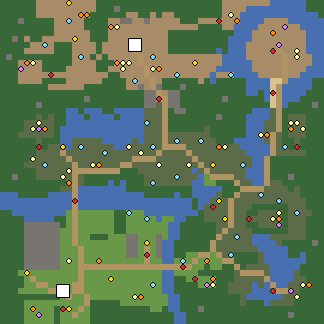
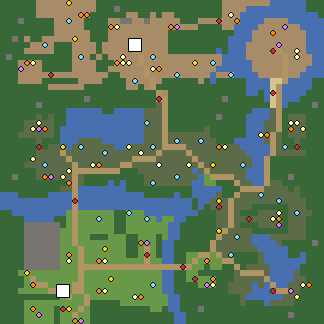
Bagna, runda 6: stosy w domu (15 → 25 obiektów), nisze ze strażą, wylot mostu na jedno pole
- Dom: skrzynia z jagodami 4 kroki od bramy, kopalnia pokeballi na łące
  przy drodze (cztery kopalnie widoczne naraz), nisza za słabą strażą ze
  skrzynią i artefaktem, drzewo wiedzy; pary zamiast pojedynczych surowców;
  nagrody na końcach odnóg (5,47) i (12–13,53).
- Straż kopalni kamienia w niszy zamkniętej lasem; wejścia zakątka i
  korytarza wroga obudowane lasem; wylot mostu zwężony lasem do jednego
  pola za strażą.
- Plamy skał lasem, zachodnie jezioro jedną taflą; drugi wiatrak → wóz,
  druga wieża → ranczo; ognisko i stos na płaskowyżu wroga.
- 127 obiektów, obiekt co 9,8 pola, bez bitwy 22 %, pasy [25,27,30,27,18].

Claude-Session: https://claude.ai/code/session_01BGiaZhgTwDgLbUxsH7vpi6

diff --git a/src/data/plansza-teren-bagna.ts b/src/data/plansza-teren-bagna.ts
@@ -20,19 +20,19 @@ export const TEREN = [
   'TTTTjjjjjTTTjjjjTjjjjj=jjjjjTTTTTTTT~T~~~jjjjj=jjjj~~~',
   'T#TTTTTTTTTTjjjTjTjjjjj=jjjjjjjjjjjjj~~~~jjjjjj=jjjj~~',
   'TTTjjjjTTTTTjjjjTTTjjjj=jjjjjjjjjjjjj~~~~~jjjjj=jjjj~~',
-  'TTTjjjjTTTTjjjjjTTjjjjjj=jjjjjjjjjjj~~~~~~jjjjj=jjj~~~',
+  'TTTjjjjTTTTTjjjjTTjjjjjj=jjjjjjjjjjj~~~~~~jjjjj=jjj~~~',
   'TTTjjjjjjjjjjjjjjjTTjjjj=jjjjjjjjjj~jjj~~~~jjjj=jj~~~~',
-  'TTTjjjjTTTTjjjjjjTTTTjjjj=jTTTTTTjT~TTTTT~~~~,,=~~~~TT',
-  'TTTTTTTTjjjjjjTTTTTTTjj#j=#TTT#TTTTTTTTTT~~~~,=~~~~~TT',
-  'TTTTTTTTTTTTTTTTTTTTTTTT##=j##TTTTTTTTTTT~~T~,=~~~~TTT',
-  'TTTTTTTTTTTTTT#TTTTTTTTT##j=##TTTTTTT#TTTTTT~,=~~~TTTT',
-  'TTTTTT#TTTTTTTTTTTTTTTTT##b=##TTTTTTTTTTTTTTT,=~TTTT#T',
-  'TTTTTTTTTTT~~T~~~TT~~~~~bbb=T##TTTTTTTTTTT~~~b=TTTTTTT',
-  'TTTTTTbTbTT~~~T~~~~T~~~~bbb=TTTTTTTT#TTTT~~~~b=TbbbTTT',
+  'TTTjjjjTTTTTTjjjjTTTTjjjj=jTTTTTTjT~TTTTT~~~~,,=~~~~TT',
+  'TTTTTTTTjjjjjjTTTTTTTjjTj=TTTTTTTTTTTTTTT~~~~,=~~~~~TT',
+  'TTTTTTTTTTTTTTTTTTTTTTTTTT=jTTTTTTTTTTTTT~~T~,=~~~~TTT',
+  'TTTTTTTTTTTTTT#TTTTTTTTTTTj=TTTTTTTTT#TTTTTT~,=~~~TTTT',
+  'TTTTTT#TTTTTTTTTTTTTTTTTTTb=TTTTTTTTTTTTTTTTT,=~TTTT#T',
+  'TTTTTTTTTTT~~~~~~TT~~~~~bbb=TTTTTTTTTTTTTT~~~b=TTTTTTT',
+  'TTTTTTbTbTT~~~~~~~~~~~~~bbb=TTTTTTTT#TTTT~~~~b=TbbbTTT',
   'TTTTbbbbbTT~~~~~~~~~~~~~bbb=TTTTTTTTTTTTT~~~bb=TbbbTTT',
   'TTTTbbbbbT~~~~~~~~~~~~~~bbb=TTTTTTbTTTTTT~~~bb=TbbbTTT',
   'TTTbbbbbbT~~~~~~~~~~~~~~bbb=bbbbbbbTTTTTT~~bb=bTbbbTTT',
-  'TTTTTTbTTT~~bbbbb~~~~~b~bbb=bbbbbbbbTTT~~~~~b=bTTbTTTT',
+  'TTTTTTbTTT~~~bbbb~~~~~~~bbb=bbbbbbbbTTT~~~~~b=bTTbTTTT',
   'TTTTTTbTbbb~bbbbbbb~~bbbbbb====bbbbbbbbb~~~~~=bbTbTTTT',
   'TTTTTTbbbb=bbbbbbbbbbbbbbb=bbbb=bbbbbbbbb~~~~=bbbbbTTT',
   'TTTTTbbbbbb=bbbbbbbbbb====bbbbbb=bbbbbbbbb~~=TTTTTTTTT',
@@ -43,18 +43,18 @@ export const TEREN = [
   'TTTTTTTTTTbb=~~~~~~~~TTTTTTTTTTT~~~~~TTT====bbbbTbTTTT',
   '~~~TTTTT~~~~=~~~~~~~~~~~TTTTT~TT~~~~bTT=bbbbbbbbbbTTTT',
   '~~~~~~~~~~~~=~~~~~~~~~~~~~~~~~~~T~~bbb=bbbbbbbbbbbbTTT',
-  '~~~~~~~~~~~~=~~~~~~~~~~~~~~~~~~~T~bbbb=bbbTTTTTTbbbTTT',
-  'TT~~~~~~~~~.=......TT...~~~~~~~~~Tbbbb=bbTTbbbbTbbbbTT',
-  'TTTT~~~~~TT.=......TT.....~..~~TTTbbbb=bbbbbbbbTbbbTTT',
-  'TTTT######T.=......TT.......~~TTTTTTbb=bbTTbbbbTbbbTTT',
+  '~~~~~~~~~~~~=~~~~~~~~~~~~~~~~~~~T~Tbbb=bbbTTTTTTbbbTTT',
+  'TT~~~~~~~~~.=......TT...~~~~~~~~~TTTbb=bTTTbbbbTbbbbTT',
+  'TTTT~~~~~TT.=......TT.....~..~~TTTTTbb=bbbbbbbbTbbbTTT',
+  'TTTT######T.=......TT.......~~TTTTTTbb=bTTTbbbbTbbbTTT',
   'TTTT######..=......TT.......~~TTTTTTb=bbbbTTTTTTbbbTTT',
-  'TTTT######..=..TTT...##...#.~~TTTTTT=bbbbb~~~bbbbbbTTT',
-  'TTTT######..=........##...#~~TTTTTT=bbbbbb~~~~bTTTTT#T',
-  'TTTT######...=.......##.=.#~~TTTTTT=bbbbbbb~~~~~TTTTTT',
-  'TTTT######...=.......##.=.#~~TT..==.=bbTTTTb~~~~TT~TTT',
-  'TTTT######...=..........=..~~...=....==TTTTb~~~~~~~TTT',
+  'TTTT######..=..TTT...TT...T.~~TTTTTT=bbbbb~~~bbbbbbTTT',
+  'TTTT######..=........TT...T~~TTTTTT=bbbbbb~~~~bTTTTT#T',
+  'TTTT######...=.......TT.=.T~~TTTTTT=bbbbbbb~~~~~TTTTTT',
+  'TTTT######...=.......TT.=.T~~TT..==.=bbTTTTb~~~~TT~TTT',
+  'TTTT######...=..........=..~~TT.=....==TTTTb~~~~~~~TTT',
   'TTTT######...===================..T..TT=Tbbbb~~~~~TTTT',
-  'TTT..........=.............~~....TTTTTTb====b~~~~bTTTT',
+  'TTT..........=.............~~TT..TTTTTTb====b~~~~bTTTT',
   'TTTT.=.......=.............~~TT.....TTTbbbbb=~~~~bbTTT',
   'TTTT..==....==.............~~TTTT...TTbbbb~b~=~~bbbbTT',
   'TTT.....===.==.............~~TTTTTTTTTbbbb~~~b==bbTTTT',
@@ -134,11 +134,9 @@ export const ROZSTAWIENIE: Array<{
   { x: 23, y: 25, rodzaj: 'surowiec', strefa: 'pogranicze', surowiec: 'jagoda' },
   { x: 35, y: 27, rodzaj: 'kopalnia', strefa: 'pogranicze', surowiec: 'odlamek' },
   { x: 10, y: 24, rodzaj: 'kopalnia', strefa: 'pogranicze', surowiec: 'pokeball' },
-  { x: 37, y: 36, rodzaj: 'kopalnia', strefa: 'pogranicze', surowiec: 'jagoda' },
   { x: 24, y: 20, rodzaj: 'budynek', strefa: 'pogranicze', budynek: 'chatka' },
-  { x: 39, y: 39, rodzaj: 'budynek', strefa: 'pogranicze', budynek: 'wieza-obserwacyjna' },
+  { x: 39, y: 39, rodzaj: 'budynek', strefa: 'pogranicze', budynek: 'ranczo' },
   { x: 46, y: 33, rodzaj: 'budynek', strefa: 'pogranicze', budynek: 'zrodlo' },
-  { x: 30, y: 43, rodzaj: 'budynek', strefa: 'pogranicze', budynek: 'oboz-treningowy' },
   { x: 26, y: 27, rodzaj: 'jasnowidz', strefa: 'pogranicze' },
   { x: 49, y: 9, rodzaj: 'surowiec', strefa: 'wroga', surowiec: 'odlamek' },
   { x: 49, y: 8, rodzaj: 'surowiec', strefa: 'wroga', surowiec: 'pokeball' },
@@ -161,7 +159,6 @@ export const ROZSTAWIENIE: Array<{
   { x: 40, y: 27, rodzaj: 'budynek', strefa: 'pogranicze', budynek: 'drzewo-wiedzy' },
   { x: 19, y: 10, rodzaj: 'skrzynia', strefa: 'wroga' },
   { x: 20, y: 10, rodzaj: 'surowiec', strefa: 'wroga', surowiec: 'kamien' },
-  { x: 20, y: 11, rodzaj: 'surowiec', strefa: 'wroga', surowiec: 'odlamek' },
   { x: 39, y: 3, rodzaj: 'skrzynia', strefa: 'wroga' },
   { x: 38, y: 2, rodzaj: 'surowiec', strefa: 'wroga', surowiec: 'pokeball' },
   { x: 13, y: 2, rodzaj: 'skrzynia', strefa: 'wroga' },
@@ -170,7 +167,6 @@ export const ROZSTAWIENIE: Array<{
   { x: 10, y: 51, rodzaj: 'potwor', strefa: 'dom', sila: 'slaby' },
   { x: 45, y: 48, rodzaj: 'potwor', strefa: 'pogranicze', sila: 'sredni' },
   { x: 36, y: 33, rodzaj: 'kopalnia', strefa: 'pogranicze', surowiec: 'kamien' },
-  { x: 35, y: 34, rodzaj: 'potwor', strefa: 'pogranicze', sila: 'sredni' },
   { x: 11, y: 30, rodzaj: 'skrzynia', strefa: 'pogranicze' },
   { x: 34, y: 43, rodzaj: 'skrzynia', strefa: 'pogranicze' },
   { x: 22, y: 13, rodzaj: 'budynek', strefa: 'wroga', budynek: 'gniazdo' },
@@ -178,14 +174,13 @@ export const ROZSTAWIENIE: Array<{
   { x: 11, y: 3, rodzaj: 'budynek', strefa: 'wroga', budynek: 'wieza-obserwacyjna' },
   { x: 7, y: 27, rodzaj: 'budynek', strefa: 'pogranicze', budynek: 'woz' },
   { x: 43, y: 32, rodzaj: 'budynek', strefa: 'pogranicze', budynek: 'oboz-treningowy' },
-  { x: 47, y: 24, rodzaj: 'budynek', strefa: 'pogranicze', budynek: 'wiatrak' },
+  { x: 47, y: 24, rodzaj: 'budynek', strefa: 'pogranicze', budynek: 'woz' },
   { x: 13, y: 9, rodzaj: 'budynek', strefa: 'wroga', budynek: 'zrodlo' },
   { x: 32, y: 46, rodzaj: 'potwor', strefa: 'pogranicze', sila: 'slaby' },
   { x: 35, y: 46, rodzaj: 'skrzynia', strefa: 'pogranicze' },
   { x: 35, y: 47, rodzaj: 'surowiec', strefa: 'pogranicze', surowiec: 'jagoda' },
   { x: 34, y: 47, rodzaj: 'artefakt', strefa: 'pogranicze' },
   { x: 23, y: 49, rodzaj: 'skrzynia', strefa: 'dom' },
-  { x: 24, y: 40, rodzaj: 'kopalnia', strefa: 'dom', surowiec: 'pokeball' },
   { x: 24, y: 42, rodzaj: 'potwor', strefa: 'dom', sila: 'slaby' },
   { x: 36, y: 3, rodzaj: 'potwor', strefa: 'wroga', sila: 'silny' },
   { x: 25, y: 24, rodzaj: 'budynek', strefa: 'pogranicze', budynek: 'kamienna-wieza' },
@@ -210,6 +205,25 @@ export const ROZSTAWIENIE: Array<{
   { x: 26, y: 11, rodzaj: 'skrzynia', strefa: 'wroga' },
   { x: 15, y: 27, rodzaj: 'surowiec', strefa: 'pogranicze', surowiec: 'kamien' },
   { x: 16, y: 27, rodzaj: 'skrzynia', strefa: 'pogranicze' },
+  { x: 36, y: 34, rodzaj: 'potwor', strefa: 'pogranicze', sila: 'sredni' },
+  { x: 36, y: 38, rodzaj: 'kopalnia', strefa: 'pogranicze', surowiec: 'jagoda' },
+  { x: 20, y: 9, rodzaj: 'surowiec', strefa: 'wroga', surowiec: 'pokeball' },
+  { x: 16, y: 48, rodzaj: 'skrzynia', strefa: 'dom' },
+  { x: 17, y: 48, rodzaj: 'surowiec', strefa: 'dom', surowiec: 'jagoda' },
+  { x: 17, y: 43, rodzaj: 'surowiec', strefa: 'dom', surowiec: 'pokeball' },
+  { x: 11, y: 42, rodzaj: 'skrzynia', strefa: 'dom' },
+  { x: 23, y: 40, rodzaj: 'skrzynia', strefa: 'dom' },
+  { x: 24, y: 40, rodzaj: 'artefakt', strefa: 'dom' },
+  { x: 5, y: 47, rodzaj: 'skrzynia', strefa: 'dom' },
+  { x: 12, y: 53, rodzaj: 'skrzynia', strefa: 'dom' },
+  { x: 13, y: 53, rodzaj: 'artefakt', strefa: 'dom' },
+  { x: 17, y: 41, rodzaj: 'kopalnia', strefa: 'dom', surowiec: 'pokeball' },
+  { x: 16, y: 36, rodzaj: 'budynek', strefa: 'dom', budynek: 'drzewo-wiedzy' },
+  { x: 35, y: 10, rodzaj: 'budynek', strefa: 'wroga', budynek: 'ognisko' },
+  { x: 28, y: 4, rodzaj: 'skrzynia', strefa: 'wroga' },
+  { x: 29, y: 4, rodzaj: 'artefakt', strefa: 'wroga' },
+  { x: 7, y: 29, rodzaj: 'skrzynia', strefa: 'pogranicze' },
+  { x: 8, y: 29, rodzaj: 'artefakt', strefa: 'pogranicze' },
 ];
 
 /** Ustawienia misji na tej planszy — patrz `UstawieniaPlanszy` w `src/data/mapy.ts`. */

diff --git a/tools/mapy/bagna.py b/tools/mapy/bagna.py
@@ -736,6 +736,7 @@ def rozstaw(g):
     runda_4(g)
     runda_5(g)
     runda_6(g)
+    runda_7(g)
 
 
 #: Runda 11 (HotA, zwycięzca rundy 10: „nic nie przypomina bagna — stawy małe,
@@ -1740,92 +1741,135 @@ def runda_6(g):
         _kupka(g, prost, wpisy)
     _odswiez(g)
     g.zasyp_odciete(m)
-    print(f'  runda 6: brak miejsca na stos w {prost}')
-    return []
-
-
-def runda_6(g):
-    m = g.mapa
-    zabrane = _usun(g, R6_USUN)
-    _odswiez(g)
-
-    # --- teren -------------------------------------------------------------
-    for x, y in R6_LAS:
-        if m[y][x] != '=':
-            m[y][x] = 'T'
-    for x, y in R6_ZAKATEK_MOST:
-        m[y][x] = '.'
-    for x, y in R6_ZAKATEK_MOST_LAS:
-        m[y][x] = 'T'
-    for x, y in R6_SKALY:
-        if m[y][x] != '=':
-            m[y][x] = '#'
-    # E3: plama skał w dole doliny → las (jedna bryła z lasem obok).
-    for y in range(50, BOK):
-        for x in range(14, 21):
-            if m[y][x] == '#':
-                m[y][x] = 'T'
-    # D3: staw w trójkącie między traktem a jeziorem, trakt jego brzegiem.
-    for x, y in R6_TRAKT_PRECZ:
-        m[y][x] = 'b'
-    for x, y in R6_STAW:
-        m[y][x] = '~'
-    for x, y in R6_TRAKT:
-        m[y][x] = '='
-    # Ścieżka w dół doliny kończy się przy kopalni kamieni, nie na pustym.
-    if m[52][13] == '=':
-        m[52][13] = '.'
-        m[52][12] = '='
-    for odnoga in R6_ODNOGI:
-        for x, y in odnoga:
-            m[y][x] = '='
-    # E3: wschodni pas — łąka w bagno, kałuże do 8 pól w grunt wokół, pola
-    # bagna wciśnięte w jezioro (≥ 5 sąsiadów wody) pod wodę.
-    wschod = lambda x, y: x >= 40 and 20 <= y <= 50
-    for y in range(BOK):
-        for x in range(BOK):
-            if wschod(x, y) and m[y][x] == '.':
-                m[y][x] = 'b'
-    for zn, sk in list(_skladowe(m, '~', 8)):
-        if len(sk) <= 8 and all(wschod(x, y) for x, y in sk):
-            for x, y in sk:
-                m[y][x] = 'b'
-    zajete = {p for p, _ in g.obiekty} | g.blokada
-    for y in range(20, 51):
-        for x in range(40, BOK - 1):
-            if m[y][x] != 'b' or (x, y) in zajete:
-                continue
-            woda = sum(1 for dy in (-1, 0, 1) for dx in (-1, 0, 1)
-                       if (dx or dy) and m[y + dy][x + dx] == '~')
-            if woda >= 5:
-                m[y][x] = '~'
-    _odswiez(g)
-
-    # --- obiekty -----------------------------------------------------------
-    for p, w in R6_OBIEKTY:
-        if m[p[1]][p[0]] not in '.,bj=':
-            m[p[1]][p[0]] = '.'
-        g.postaw(p, w)
-    _odswiez(g)
-    for x, y in R6_ODNOGA_SADU:
-        m[y][x] = '='
-    for b, prost in R6_BUDOWLE:
-        p = _miejsce(g, prost)
-        if p is None:
-            print(f'  runda 6: brak miejsca na {b} w {prost}')
-            continue
-        g.postaw(p, ('budynek', b))
-    _odswiez(g)
-    for prost, wpisy in R6_STOSY:
-        _kupka(g, prost, wpisy)
-    _odswiez(g)
-    g.zasyp_odciete(m)
     import os
     if os.environ.get('R6_DEBUG'):
         for y in range(BOK):
             ob = {q: w[0][0].upper() for q, w in g.obiekty}
             print('%3d ' % y + ''.join(ob.get((x, y)) or ('o' if _miejsce(g, (x, y, x, y)) else m[y][x]) for x in range(BOK)))
     print(f'  runda 6: usunięte {len(zabrane)}, obiektów {len(g.obiekty)}')
+
+
+
+# --- RUNDA 7 PĘTLI (werdykt ślepego porównania r6: przegrana, 19 TAK /
+# 10 CZĘŚCIOWO / 1 NIE) ---------------------------------------------------
+# Krytyk: plansza za rzadka (obiekt co 11,1 pola), dom ma 15 obiektów na
+# 113, start na pustej łące; pojedyncze surowce i straże na placu. Poprzednie
+# rundy odchudzały na żądanie innych krytyków — więc nie konfetti, tylko
+# STOSY po 2–3 przy drodze i na końcach odnóg, budynki do odwiedzenia.
+#  - A3/G1: stos skrzynia + jagody (16–17, 48) 4 kroki od bramy zamku.
+#  - B1: kopalnia pokeballi z niszy (24,40) na otwartą łąkę przy trakcie
+#    (komplet czterech kopalń w domu widać od razu); w niszy za słabą strażą
+#    (24,42) zostaje stos skrzynia + artefakt.
+#  - B2: pojedyncze (16,43) i (11,43) → pary.
+#  - D1/F1: koniec odnogi do sadu (5,46) i ścieżki w dół doliny (12,52)
+#    kończy stos (skrzynia + kamień).
+#  - B2: stos płaskowyżu wroga (19–21, 10–11) zbity w kupkę 2 × 2 + 1.
+#  - C1: straż kamiennej kopalni (35,34) → (36,34) w niszy domkniętej lasem
+#    (kopalnia jagód (37,36) dwa pola niżej, (36,38), przy zakręcie traktu);
+#    wejście do zakątka wschodniego (41,36) i zachodniego zakątka wroga (8,12)
+#    to korytarze z lasem po obu stronach.
+#  - C4: wylot mostu (29–30, 43–45) zwężony lasem do jednego pola; obóz
+#    treningowy z przyczółka precz.
+#  - E3: skały niszy (21–22/26, 39–42) i przy bramie wroga (23–30, 13–17)
+#    → las; jezioro zachodnie (10–23, 18–23) bez wysepek i zatok.
+#  - F3: drugi wiatrak (47,24) → wędrowny sklepik, druga wieża widokowa
+#    (39,39) → ranczo. Portale (para „Stacji Kolejki") zostają — to jeden
+#    obiekt w dwóch końcach.
+R7_USUN = [(24, 40), (30, 43), (35, 34), (37, 36), (20, 11)]
+
+R7_LAS = [
+    # korytarz przed zakątkiem wroga (8,12) dłuższy o dwa pola
+    (11, 11), (11, 13), (12, 13),
+    # wejście do zakątka wschodniego (41,36): las po obu stronach
+    (40, 35), (40, 37),
+    # nisza kamiennej kopalni pogranicza (36,33)
+    (34, 34), (34, 35), (35, 35), (34, 36), (35, 36),
+    # wylot mostu
+    (29, 43), (30, 43), (29, 45), (30, 45),
+]
+
+#: Budowle podmienione w miejscu (F3).
+R7_PODMIEN = {(47, 24): 'woz', (39, 39): 'ranczo'}
+
+R7_OBIEKTY = [
+    ((36, 34), ('potwor', 'sredni')),           # nisza kopalni kamieni
+    ((36, 38), ('kopalnia', 'jagoda')),         # z (37,36): rysunek nie wchodzi na straż
+    ((20, 9), ('surowiec', 'pokeball')),        # stos wroga (19–21, 9–10) zbity w kupkę
+    ((16, 48), ('skrzynia', None)),             # A3: 4 kroki od bramy
+    ((17, 48), ('surowiec', 'jagoda')),
+    ((17, 43), ('surowiec', 'pokeball')),       # para ze skrzynią (16,43)
+    ((11, 42), ('skrzynia', None)),             # para z jagodami (11,43)
+    ((23, 40), ('skrzynia', None)),             # nisza za strażą (24,42)
+    ((24, 40), ('artefakt', None)),
+    ((5, 47), ('skrzynia', None)),              # koniec odnogi do sadu
+    ((12, 53), ('skrzynia', None)),             # koniec ścieżki w dół doliny
+    ((13, 53), ('artefakt', None)),
+]
+
+R7_BUDOWLE = [
+    ('kopalnia:pokeball', (15, 39, 20, 42)),    # B1: przy trakcie, bez straży
+    ('drzewo-wiedzy', (14, 35, 18, 38)),        # dom: łąka nad traktem
+    ('ognisko', (30, 9, 36, 12)),               # płaskowyż wroga, wschód
+]
+
+#: Stosy w chudych ekranach (`_kupka`).
+R7_STOSY = [
+    ((26, 3, 30, 5), [('skrzynia', None), ('artefakt', None)]),
+    # drugi pas odległości (garb nagród): zachodnie trzęsawisko za groblą
+    ((5, 28, 8, 29), [('skrzynia', None), ('artefakt', None)]),
+]
+
+
+def runda_7(g):
+    m = g.mapa
+    zabrane = _usun(g, R7_USUN)
+    for i, (q, w) in enumerate(g.obiekty):
+        if q in R7_PODMIEN and w[0] == 'budynek':
+            g.obiekty[i] = (q, ('budynek', R7_PODMIEN[q]))
+    _odswiez(g)
+
+    # --- teren -------------------------------------------------------------
+    for x, y in R7_LAS:
+        if m[y][x] != '=':
+            m[y][x] = 'T'
+    # E3: skały-plamy → las.
+    for x, y in R6_SKALY:
+        if m[y][x] == '#':
+            m[y][x] = 'T'
+    for y in range(13, 19):
+        for x in range(22, 32):
+            if m[y][x] == '#':
+                m[y][x] = 'T'
+    # E3: jezioro zachodnie jedną taflą — wysepki lasu i wąskie zatoki bagna
+    # (pola z ≥ 5 sąsiadami wody) pod wodę; obrys jeziora zostaje krzywy.
+    for _ in range(3):
+        pod_wode = [
+            (x, y) for y in range(18, 24) for x in range(10, 24)
+            if m[y][x] in 'Tb' and sum(1 for dy in (-1, 0, 1) for dx in (-1, 0, 1)
+                                       if (dx or dy) and m[y + dy][x + dx] == '~') >= 5
+        ]
+        _lataj(g, pod_wode, '~')
+    _odswiez(g)
+
+    # --- obiekty -----------------------------------------------------------
+    for p, w in R7_OBIEKTY:
+        if m[p[1]][p[0]] not in '.,bj':
+            m[p[1]][p[0]] = '.' if strefa(*p) != 'pogranicze' else 'b'
+        g.postaw(p, w)
+    _odswiez(g)
+    for b, prost in R7_BUDOWLE:
+        p = _miejsce(g, prost)
+        if p is None:
+            print(f'  runda 7: brak miejsca na {b} w {prost}')
+            continue
+        wpis = ('kopalnia', b.split(':')[1]) if b.startswith('kopalnia:') else ('budynek', b)
+        g.postaw(p, wpis)
+    _odswiez(g)
+    for prost, wpisy in R7_STOSY:
+        _kupka(g, prost, wpisy)
+    _odswiez(g)
+    g.zasyp_odciete(m)
+    print(f'  runda 7: usunięte {len(zabrane)}, obiektów {len(g.obiekty)}')
 
 
 NAGLOWEK = '''// PLIK GENEROWANY — nie poprawiaj ręcznie.

diff --git a/STAN.md b/STAN.md
@@ -97,6 +97,37 @@ na wolnym gruncie), ten sam styl.
   22 %. Kafle 18 × 18: 7–16. Okno 21 × 18 przy (30–50, 33–50) ma 23
   obiekty i 5 straży — najgęstsze, nie zbite. Sondy Bagien OK, probe-misja OK.
 
+Runda 7 buildera (po werdykcie r6: PRZEGRANA ślepo, 19 TAK / 10 CZĘŚCIOWO /
+1 NIE — „za rzadka, dom 15 obiektów na 113, start na pustej łące").
+Funkcja `runda_7(g)` po `runda_6` (dublet martwej pierwszej `runda_6` usunięty).
+Dosypane STOSAMI, nie konfetti: obiektów 113 → 127, obiekt co 9,8 pola, dom
+15 → 25 (ekran zamku 0–20 × 36–53: 17).
+- **A3/G1**: skrzynia + jagody (16–17, 48) 4 kroki od bramy. **B1**:
+  kopalnia pokeballi z niszy (24,40) na łąkę przy trakcie (17,41) — cztery
+  kopalnie domu widać od razu; w niszy za słabą strażą (24,42) skrzynia +
+  artefakt. Drzewo wiedzy (16,36) na łące nad traktem.
+- **B2**: pary (16–17, 43), (11, 42–43); stos wroga (19–21, 9–10) zbity.
+  **D1/F1**: koniec odnogi do sadu — skrzynia (5,47); koniec ścieżki w dół
+  doliny — skrzynia + artefakt (12–13, 53).
+- **C1**: straż kopalni kamieni (35,34) → (36,34) w niszy (las (34–35,
+  34–36)), kopalnia jagód (37,36) → (36,38), żeby rysunek straganu nie
+  wchodził na straż; wejście do zakątka (41,36) i korytarz wroga (8,12)
+  domknięte lasem (40,35/37), (11–12, 11/13). **C4**: wylot mostu zwężony
+  lasem (29–30, 43/45) do jednego pola za strażą (30,44); obóz z przyczółka
+  precz.
+- **E3**: skały niszy (21–22/26, 39–42) i przy bramie wroga → las; jezioro
+  zachodnie (10–23, 18–23) bez wysepek (pola z ≥ 5 sąsiadami wody pod wodę).
+  **F3**: wiatrak (47,24) → wóz, wieża widokowa (39,39) → ranczo. Portale
+  zostają (para „Stacji Kolejki" — krytyk liczy ją jako dublet).
+- **G3** nie ruszone: równe rzędy wierzb to układ klocków w scenie
+  (`src/data/klocki.ts`, wspólny), konfiguracja planszy go nie zmienia.
+- Dosyp poza domem: ognisko (35,10) i stos (28–29, 4) na płaskowyżu wroga,
+  stos (7–8, 29) na zachodnim trzęsawisku (drugi pas — garb nagród).
+- Liczby: surowce 32 (25 %), skrzynie 28, budowle 28, artefakty 12,
+  kopalnie 11, straże 15 (12 %); pasy [25, 27, 30, 27, 18], bez bitwy 22 %.
+  Okna 21 × 18: 11–24 (najgęstsze (6–27, 18–42)). Sondy Bagien OK,
+  probe-misja OK, tsc OK.
+
 ## Pokémart — sklep z przedmiotami zamiast gildii magów (2026-09-29)
 
 **Co jest.** Plecak trenera przestał się napełniać sam przed każdą bitwą —
